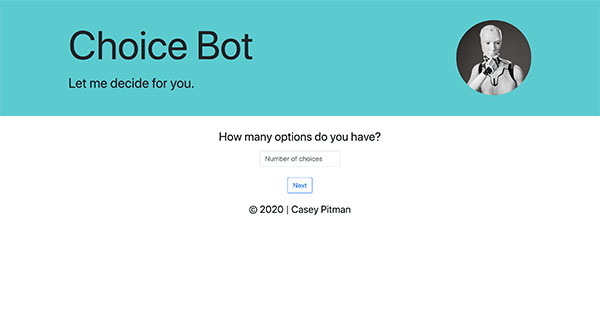
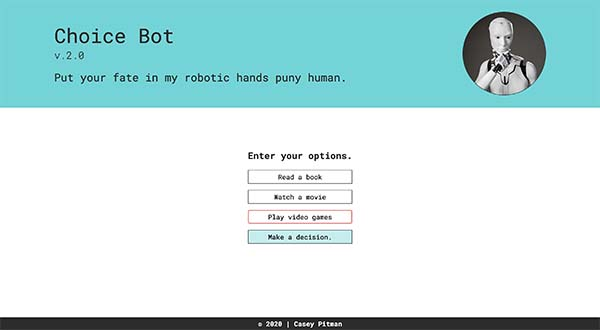
Added new projects.

diff --git a/projects.html b/projects.html
@@ -64,6 +64,68 @@
 
        <section id = 'more-projects-flex-container'>
 
+               <!-- Memory -->
+              <div class="work-sample-card website">
+                <a href="https://caseypitman.github.io/memory/" target="_blank">
+                  <img src="img/memory.jpg"class="work-sample-img" alt="Screenshot of Memory app.">
+                </a>
+                <div class="work-sample-card-content">
+                  <h4 class="work-sample-card-title">Memory</h4>
+                  <div class="sample-tool-list">
+                    <p class="sample-tools">React</p>
+                  </div>
+                  <p class="work-sample-card-text">
+                    This React app is a fantasy themed implementation of the classic Memory game. It randomizes the card arrangement each playthrough.
+                  </p>
+                  <div class=" work-sample-links">
+                    <a href="https://caseypitman.github.io/memory/" target="_blank" class="link-button">View Site</a>
+                    <a href="https://github.com/CaseyPitman/memory" target=_blank" class="link-button">View Code</a>
+                  </div>
+                </div>
+              </div>
+
+               <!-- Tic Tac Toe -->
+              <div class="work-sample-card website">
+                <a href="https://caseypitman.github.io/tic-tac-toe/" target="_blank">
+                  <img src="img/tic-tac-toe.jpg"class="work-sample-img" alt="Screenshot of Tic Tac Toe app.">
+                </a>
+                <div class="work-sample-card-content">
+                  <h4 class="work-sample-card-title">Tic Tac Toe</h4>
+                  <div class="sample-tool-list">
+                    <p class="sample-tools">React</p>
+                  </div>
+                  <p class="work-sample-card-text">
+                    This is a React version of the classic game. It tracks the current player's turn and continually checks for a win or draw.
+                  </p>
+                  <div class=" work-sample-links">
+                    <a href="https://caseypitman.github.io/tic-tac-toe/" target="_blank" class="link-button">View Site</a>
+                    <a href="https://github.com/CaseyPitman/tic-tac-toe" target=_blank" class="link-button">View Code</a>
+                  </div>
+                </div>
+              </div>
+
+
+               <!-- Quiz -->
+              <div class="work-sample-card website">
+                <a href="https://caseypitman.github.io/quiz1/" target="_blank">
+                  <img src="img/quiz.jpg"class="work-sample-img" alt="Screenshot of React Quiz app.">
+                </a>
+                <div class="work-sample-card-content">
+                  <h4 class="work-sample-card-title">Quiz App</h4>
+                  <div class="sample-tool-list">
+                    <p class="sample-tools">React</p>
+                  </div>
+                  <p class="work-sample-card-text">
+                    A somewhat difficult general knowledge quiz app built with React. It tracks the player's score and features a progress bar. 
+                  </p>
+                  <div class=" work-sample-links">
+                    <a href="https://caseypitman.github.io/quiz1/" target="_blank" class="link-button">View Site</a>
+                    <a href="https://github.com/CaseyPitman/quiz1" target=_blank" class="link-button">View Code</a>
+                  </div>
+                </div>
+              </div>
+
+
                <!--Purposefully Adrift -->
               <div class="work-sample-card website">
                 <a href="https://caseypitman.github.io/purposefully-adrift/" target="_blank">

diff --git a/index.html b/index.html
@@ -137,6 +137,27 @@
                 </div>
               </div>
               
+              <!--Choice bot-->
+              <div class="work-sample-card app">
+                <a href="https://caseypitman.github.io/choice-bot-2.0/" target="_blank">
+                  <img src="img/choice-bot.jpg" class="work-sample-img" alt="Screenshot of Choice Bot web app.">
+                </a>
+                <div class="work-sample-card-content">
+                  <h4 class="work-sample-card-title">Choicebot</h4>
+                  <div class="sample-tool-list">
+                    <p class="sample-tools">React</p>
+                  </div>
+                  <p class="work-sample-card-text">
+                    A React app that takes as many choice options as you wish to input and makes a decision for you.
+                  </p>
+                  <div class=" work-sample-links">
+                    <a href="https://caseypitman.github.io/choice-bot-2.0/" target="_blank" class="link-button">View Site</a>
+                    <a href="https://github.com/CaseyPitman/choice-bot-2.0" target="_blank" class="link-button">View Code</a>
+                  </div>
+                </div>
+              </div>
+
+
               <!--Currency Converter-->
               <div class="work-sample-card app">
                 <a href="https://caseypitman.github.io/currency-converter/" target="_blank">
@@ -157,26 +178,6 @@
                 </div>
               </div>
 
-              <!--Choice bot-->
-              <div class="work-sample-card app">
-                <a href="https://caseypitman.github.io/choice-maker/" target="_blank">
-                  <img src="img/choice-bot.jpg" class="work-sample-img" alt="Screenshot of Choice Bot web app.">
-                </a>
-                <div class="work-sample-card-content">
-                  <h4 class="work-sample-card-title">Choicebot</h4>
-                  <div class="sample-tool-list">
-                    <p class="sample-tools">JavaScript</p>
-                    <p class="sample-tools">jQuery</p>
-                  </div>
-                  <p class="work-sample-card-text">
-                    An app that takes as many choice options as you wish to input and makes a decision for you.
-                  </p>
-                  <div class=" work-sample-links">
-                    <a href="https://caseypitman.github.io/choice-maker/" target="_blank" class="link-button">View Site</a>
-                    <a href="https://github.com/CaseyPitman/choice-maker" target="_blank" class="link-button">View Code</a>
-                  </div>
-                </div>
-              </div>
 
               <!--Pokedex-->
               <div class="work-sample-card app">
